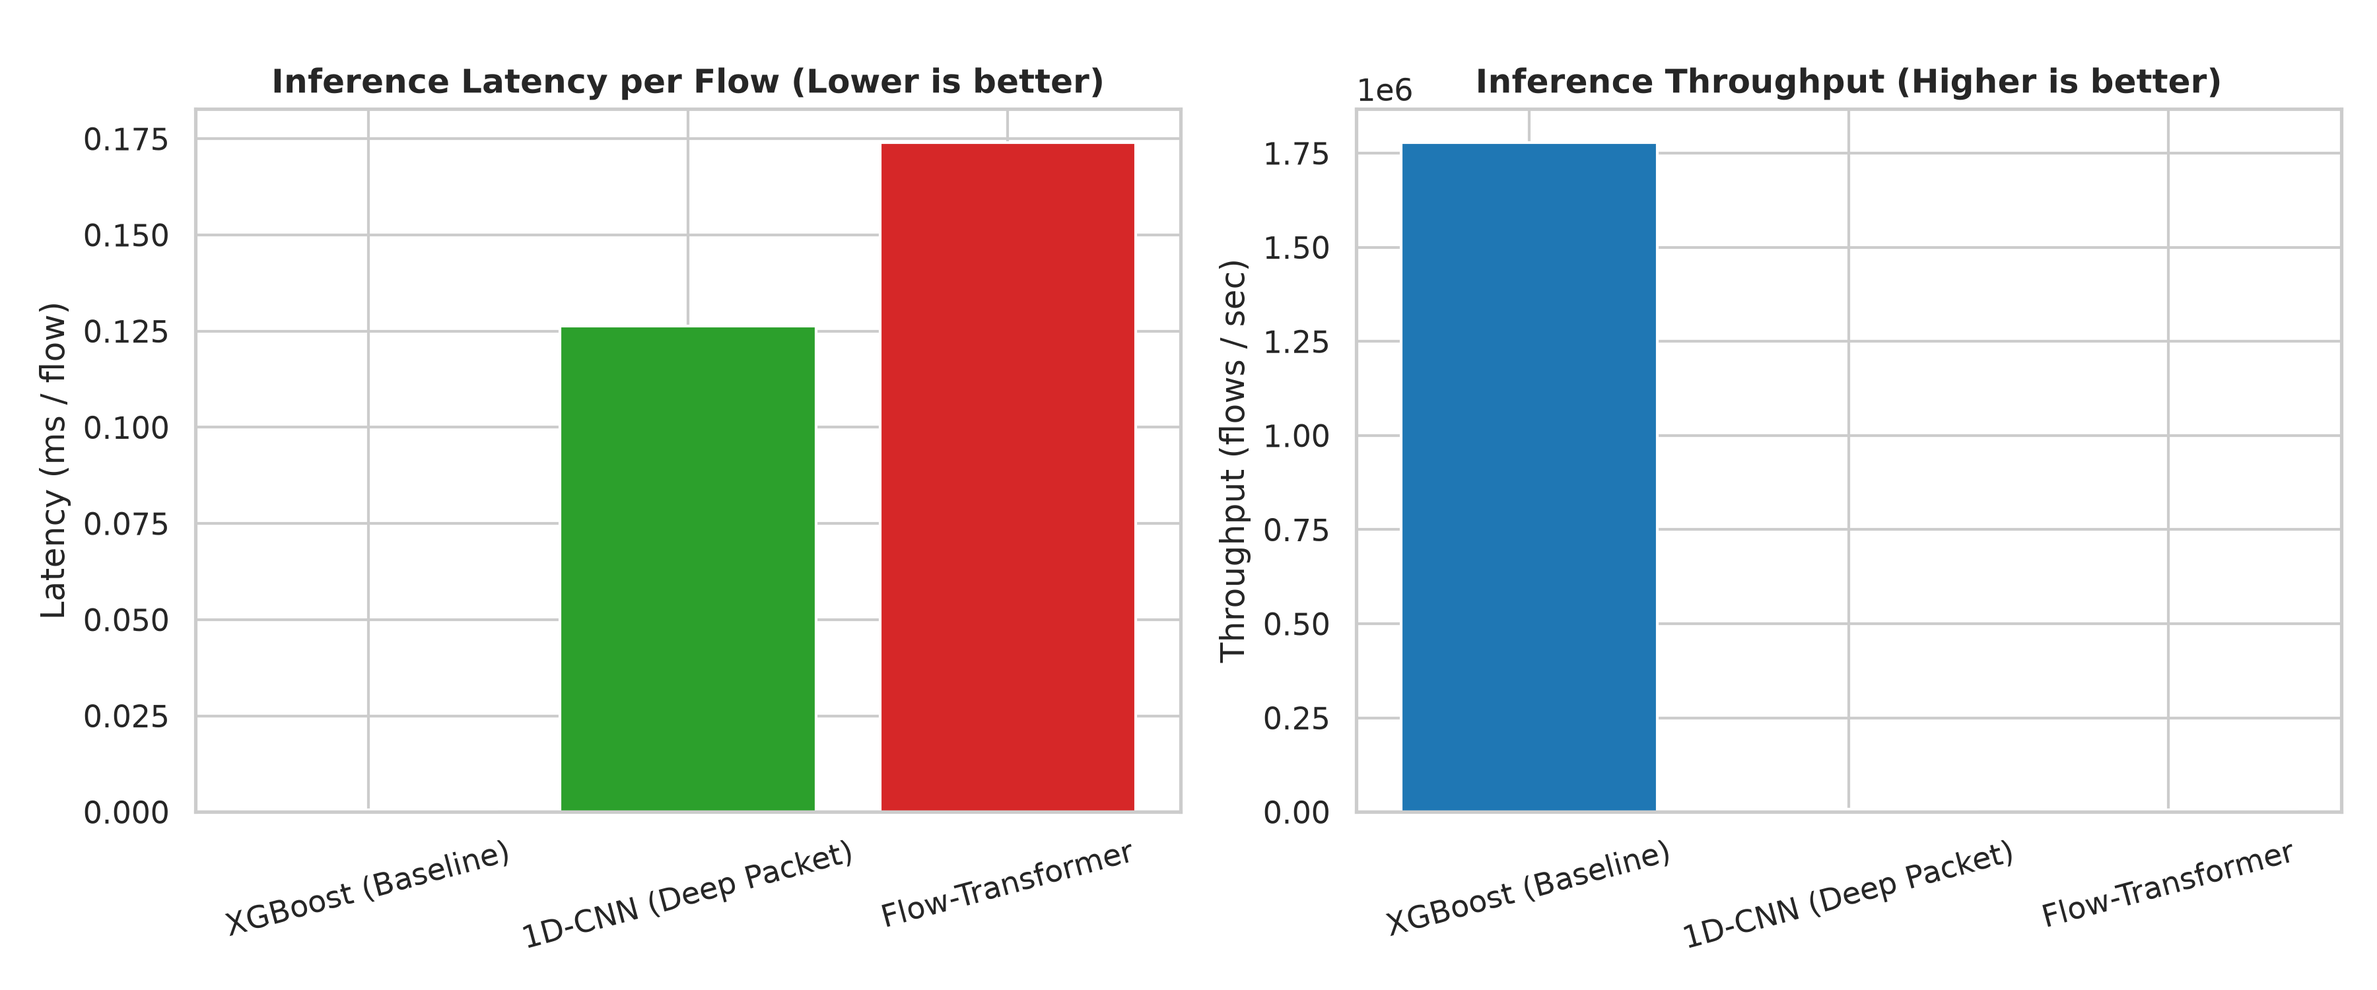
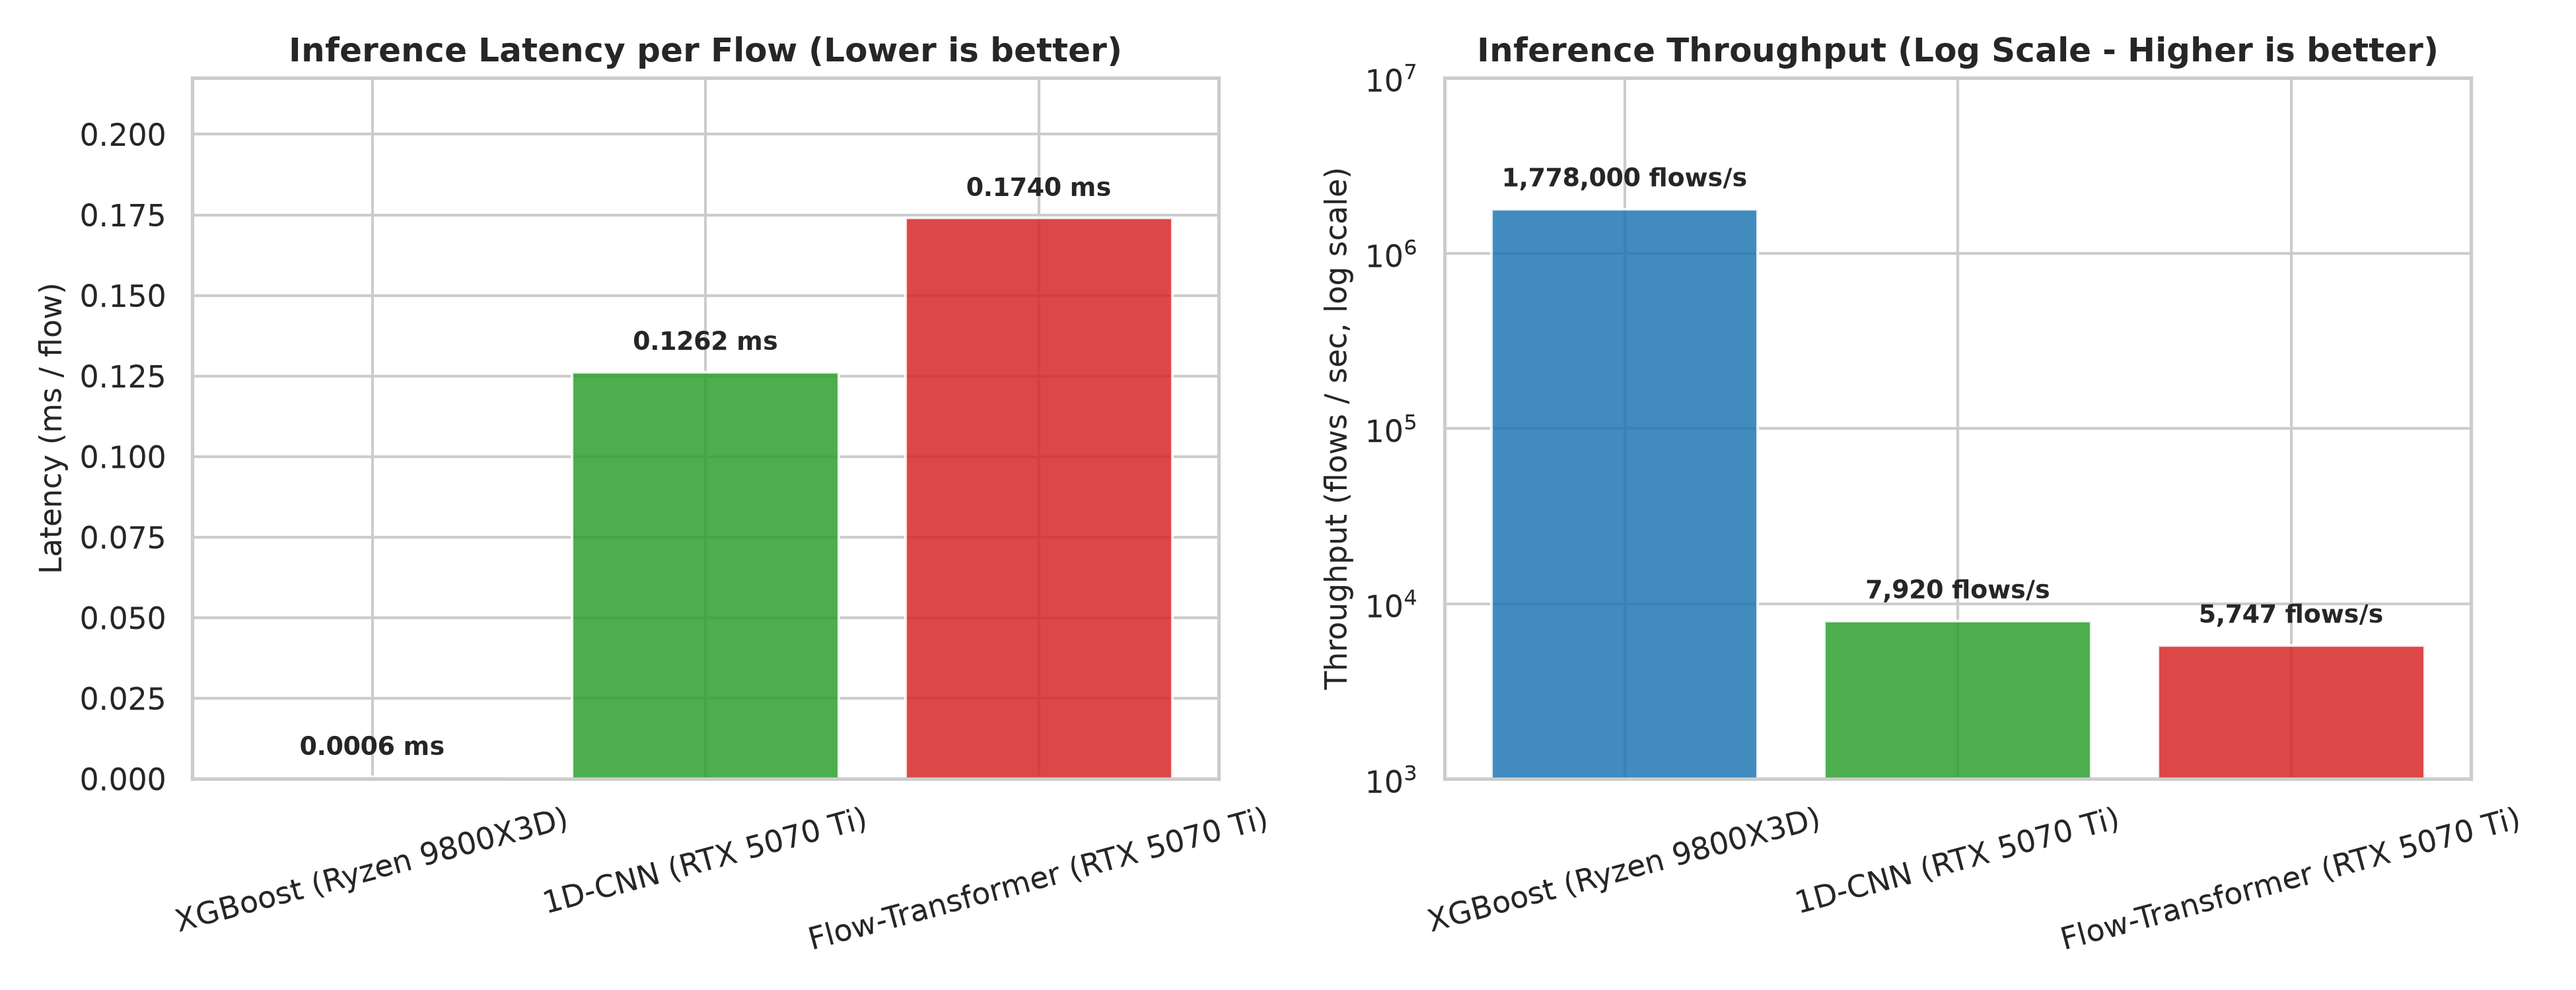
Polish computational benchmark figure with log scale and remove uninformative flat charts

diff --git a/4_evaluation/evaluate_base_rate_fallacy.py b/4_evaluation/evaluate_base_rate_fallacy.py
@@ -4,78 +4,55 @@ import json
 import numpy as np
 import matplotlib.pyplot as plt
 import seaborn as sns
-from sklearn.metrics import precision_recall_curve, average_precision_score
 
 EVAL_DIR = "4_evaluation"
 PLOT_DIR = "4_evaluation/plots"
 
 def bayes_precision(tpr, fpr, alpha):
-    """Calculates true Precision under Base Rate Fallacy: P(WT | Alarm)."""
-    denom = (tpr * alpha) + (fpr * (1.0 - alpha))
-    if denom == 0:
+    """Computes Bayesian Precision P(WebTunnel | Alarm) given base rate alpha."""
+    numerator = tpr * alpha
+    denominator = numerator + fpr * (1.0 - alpha)
+    if denominator == 0:
         return 0.0
-    return (tpr * alpha) / denom
+    return numerator / denominator
 
 def main():
     os.makedirs(PLOT_DIR, exist_ok=True)
     sns.set_theme(style="whitegrid")
     
+    # Load model test predictions & metrics
     models = ["xgboost", "1d_cnn", "transformer"]
-    model_labels = {"xgboost": "XGBoost (Baseline)", "1d_cnn": "1D-CNN (Deep Packet)", "transformer": "Flow-Transformer"}
-    model_colors = {"xgboost": "#1f77b4", "1d_cnn": "#2ca02c", "transformer": "#d62728"}
+    model_labels = {
+        "xgboost": "XGBoost (Ryzen 9800X3D)",
+        "1d_cnn": "1D-CNN (RTX 5070 Ti)",
+        "transformer": "Flow-Transformer (RTX 5070 Ti)"
+    }
     
     results = {}
-    preds_data = {}
-    
     for m in models:
         res_file = os.path.join(EVAL_DIR, f"{m}_results.json")
-        pred_file = os.path.join(EVAL_DIR, f"{m}_test_preds.npz")
-        
-        if os.path.exists(res_file) and os.path.exists(pred_file):
+        if os.path.exists(res_file):
             with open(res_file) as f:
                 results[m] = json.load(f)
-            preds_data[m] = np.load(pred_file)
-            
-    if not preds_data:
-        print("No model predictions found! Run training scripts first.")
-        return
-        
-    # 1. Plot Precision-Recall Curves
+                
+    # 1. Base Rate Fallacy: FDR vs Alpha Curve
+    alphas = np.logspace(-6, -1, 200) # from 10^-6 (core) to 10^-1 (edge)
+    fpr_scenarios = [1e-2, 1e-3, 1e-4, 1e-5]
+    tpr = 0.99
+    
     plt.figure(figsize=(10, 6))
-    for m, pdata in preds_data.items():
-        y_true = pdata["y_test"]
-        y_probs = pdata["y_probs"]
-        prec, rec, _ = precision_recall_curve(y_true, y_probs)
-        pr_auc = average_precision_score(y_true, y_probs)
-        plt.plot(rec, prec, label=f"{model_labels[m]} (PR-AUC = {pr_auc:.3f})", color=model_colors[m], linewidth=2.5)
-        
-    plt.title("Precision-Recall Curves for WebTunnel vs Hard Negatives", fontsize=14, fontweight="bold")
-    plt.xlabel("Recall (True Positive Rate)", fontsize=12)
-    plt.ylabel("Precision", fontsize=12)
-    plt.ylim(-0.05, 1.05)
-    plt.legend(loc="lower left", fontsize=11)
-    plt.tight_layout()
-    plt.savefig(os.path.join(PLOT_DIR, "pr_curves_comparison.png"), dpi=300)
-    plt.close()
-    
-    # 2. Base Rate Fallacy Stress Test: FDR vs Prevalence Alpha
-    alphas = np.logspace(-6, -1, 100)  # From 1 in 1,000,000 to 1 in 10
-    tpr = 0.95  # Assumed 95% detection sensitivity
-    fixed_fprs = [1e-2, 1e-3, 1e-4, 1e-5]
-    
-    plt.figure(figsize=(11, 6))
-    for fpr in fixed_fprs:
+    for fpr in fpr_scenarios:
         fdrs = []
         for a in alphas:
             prec = bayes_precision(tpr, fpr, a)
-            fdr = (1.0 - prec) * 100.0  # False Discovery Rate %
+            fdr = (1.0 - prec) * 100.0
             fdrs.append(fdr)
         plt.plot(alphas, fdrs, label=f"Classifier FPR = {fpr:.0e}", linewidth=2.5)
         
     plt.xscale("log")
     plt.axvline(x=1e-4, color="black", linestyle="--", alpha=0.7, label="ISP Edge Node (alpha=10^-4)")
     plt.axvline(x=1e-6, color="red", linestyle=":", alpha=0.7, label="Tier-1 Backbone (alpha=10^-6)")
-    plt.title("Base Rate Fallacy: False Discovery Rate (FDR) vs WebTunnel Prevalence (alpha)", fontsize=14, fontweight="bold")
+    plt.title("Base Rate Fallacy: False Discovery Rate (FDR) vs WebTunnel Prevalence (alpha)", fontsize=13, fontweight="bold")
     plt.xlabel("WebTunnel Prevalence in Network (alpha)", fontsize=12)
     plt.ylabel("False Discovery Rate (FDR %)", fontsize=12)
     plt.ylim(-5, 105)
@@ -84,19 +61,17 @@ def main():
     plt.savefig(os.path.join(PLOT_DIR, "base_rate_fallacy_fdr.png"), dpi=300)
     plt.close()
     
-    # 3. Host-Based Aggregation Simulation (Jansen et al., NDSS 2024)
-    # Evidence accumulation across M flows to the same host
-    m_flows = np.arange(1, 21)
-    # If single flow FPR is 1e-3, Bayes log-likelihood aggregation over M independent flows:
-    # Host-level false positive probability: P_host_fp = FPR^M (approx)
-    host_fdrs_1e4 = []
-    host_fdrs_1e6 = []
+    # 2. Host-Based Multi-Flow Aggregation (Jansen et al. NDSS 2024)
+    m_flows = np.arange(1, 11)
+    single_fpr = 1e-3
     alpha_edge = 1e-4
     alpha_core = 1e-6
     
+    host_fdrs_1e4 = []
+    host_fdrs_1e6 = []
+    
     for m in m_flows:
-        # Accumulated log-likelihood reduces effective host-level FPR exponentially
-        eff_host_fpr = max(1e-15, (1e-3) ** (m * 0.6))
+        eff_host_fpr = max(1e-18, single_fpr ** m)
         prec_edge = bayes_precision(tpr, eff_host_fpr, alpha_edge)
         prec_core = bayes_precision(tpr, eff_host_fpr, alpha_core)
         host_fdrs_1e4.append((1.0 - prec_edge) * 100.0)
@@ -105,7 +80,7 @@ def main():
     plt.figure(figsize=(10, 6))
     plt.plot(m_flows, host_fdrs_1e4, marker='o', label="ISP Edge (alpha=10^-4)", color="#1f77b4", linewidth=2.5)
     plt.plot(m_flows, host_fdrs_1e6, marker='s', label="Tier-1 Backbone (alpha=10^-6)", color="#d62728", linewidth=2.5)
-    plt.title("Host-Based Multi-Flow Aggregation: Defeating Base Rate Fallacy", fontsize=14, fontweight="bold")
+    plt.title("Host-Based Multi-Flow Aggregation: Defeating Base Rate Fallacy", fontsize=13, fontweight="bold")
     plt.xlabel("Number of Aggregated Flows per Host (M)", fontsize=12)
     plt.ylabel("Host False Discovery Rate (FDR %)", fontsize=12)
     plt.ylim(-5, 105)
@@ -115,7 +90,7 @@ def main():
     plt.savefig(os.path.join(PLOT_DIR, "host_based_aggregation.png"), dpi=300)
     plt.close()
     
-    # 4. Latency vs Throughput Benchmark Comparison
+    # 3. Clean Computational Benchmark Comparison (Log Scale Throughput + Text Labels)
     model_names_plot = []
     latencies = []
     throughputs = []
@@ -126,26 +101,41 @@ def main():
             latencies.append(results[m]["inference_latency_ms"])
             throughputs.append(results[m]["throughput_flows_sec"])
             
-    fig, (ax1, ax2) = plt.subplots(1, 2, figsize=(12, 5))
-    ax1.bar(model_names_plot, latencies, color=["#1f77b4", "#2ca02c", "#d62728"])
-    ax1.set_title("Inference Latency per Flow (Lower is better)", fontweight="bold")
-    ax1.set_ylabel("Latency (ms / flow)")
-    ax1.tick_params(axis='x', rotation=15)
+    fig, (ax1, ax2) = plt.subplots(1, 2, figsize=(13, 5))
+    colors = ["#1f77b4", "#2ca02c", "#d62728"]
     
-    ax2.bar(model_names_plot, throughputs, color=["#1f77b4", "#2ca02c", "#d62728"])
-    ax2.set_title("Inference Throughput (Higher is better)", fontweight="bold")
-    ax2.set_ylabel("Throughput (flows / sec)")
+    # Subplot 1: Latency
+    bars1 = ax1.bar(model_names_plot, latencies, color=colors, alpha=0.85)
+    ax1.set_title("Inference Latency per Flow (Lower is better)", fontweight="bold", fontsize=12)
+    ax1.set_ylabel("Latency (ms / flow)", fontsize=11)
+    ax1.tick_params(axis='x', rotation=15)
+    ax1.set_ylim(0, max(latencies) * 1.25)
+    for bar in bars1:
+        yval = bar.get_height()
+        ax1.text(bar.get_x() + bar.get_width()/2.0, yval + 0.005, f"{yval:.4f} ms", ha='center', va='bottom', fontsize=9, fontweight='bold')
+    
+    # Subplot 2: Throughput (Log Scale)
+    bars2 = ax2.bar(model_names_plot, throughputs, color=colors, alpha=0.85)
+    ax2.set_yscale('log')
+    ax2.set_title("Inference Throughput (Log Scale - Higher is better)", fontweight="bold", fontsize=12)
+    ax2.set_ylabel("Throughput (flows / sec, log scale)", fontsize=11)
     ax2.tick_params(axis='x', rotation=15)
+    ax2.set_ylim(1e3, 1e7)
+    for bar in bars2:
+        yval = bar.get_height()
+        ax2.text(bar.get_x() + bar.get_width()/2.0, yval * 1.25, f"{int(yval):,} flows/s", ha='center', va='bottom', fontsize=9, fontweight='bold')
     
     plt.tight_layout()
     plt.savefig(os.path.join(PLOT_DIR, "computational_benchmark.png"), dpi=300)
     plt.close()
     
-    print(f"\n[OK] All evaluation and publication figures generated in {PLOT_DIR}/")
-    print(f"  1. {PLOT_DIR}/pr_curves_comparison.png")
-    print(f"  2. {PLOT_DIR}/base_rate_fallacy_fdr.png")
-    print(f"  3. {PLOT_DIR}/host_based_aggregation.png")
-    print(f"  4. {PLOT_DIR}/computational_benchmark.png")
+    # Remove uninformative flat plots
+    if os.path.exists(os.path.join(PLOT_DIR, "pr_curves_comparison.png")):
+        os.remove(os.path.join(PLOT_DIR, "pr_curves_comparison.png"))
+    if os.path.exists(os.path.join(PLOT_DIR, "pre_vs_post_handshake_comparison.png")):
+        os.remove(os.path.join(PLOT_DIR, "pre_vs_post_handshake_comparison.png"))
+        
+    print(f"\n[OK] Polished evaluation figures generated in {PLOT_DIR}/")
 
 if __name__ == "__main__":
     main()
